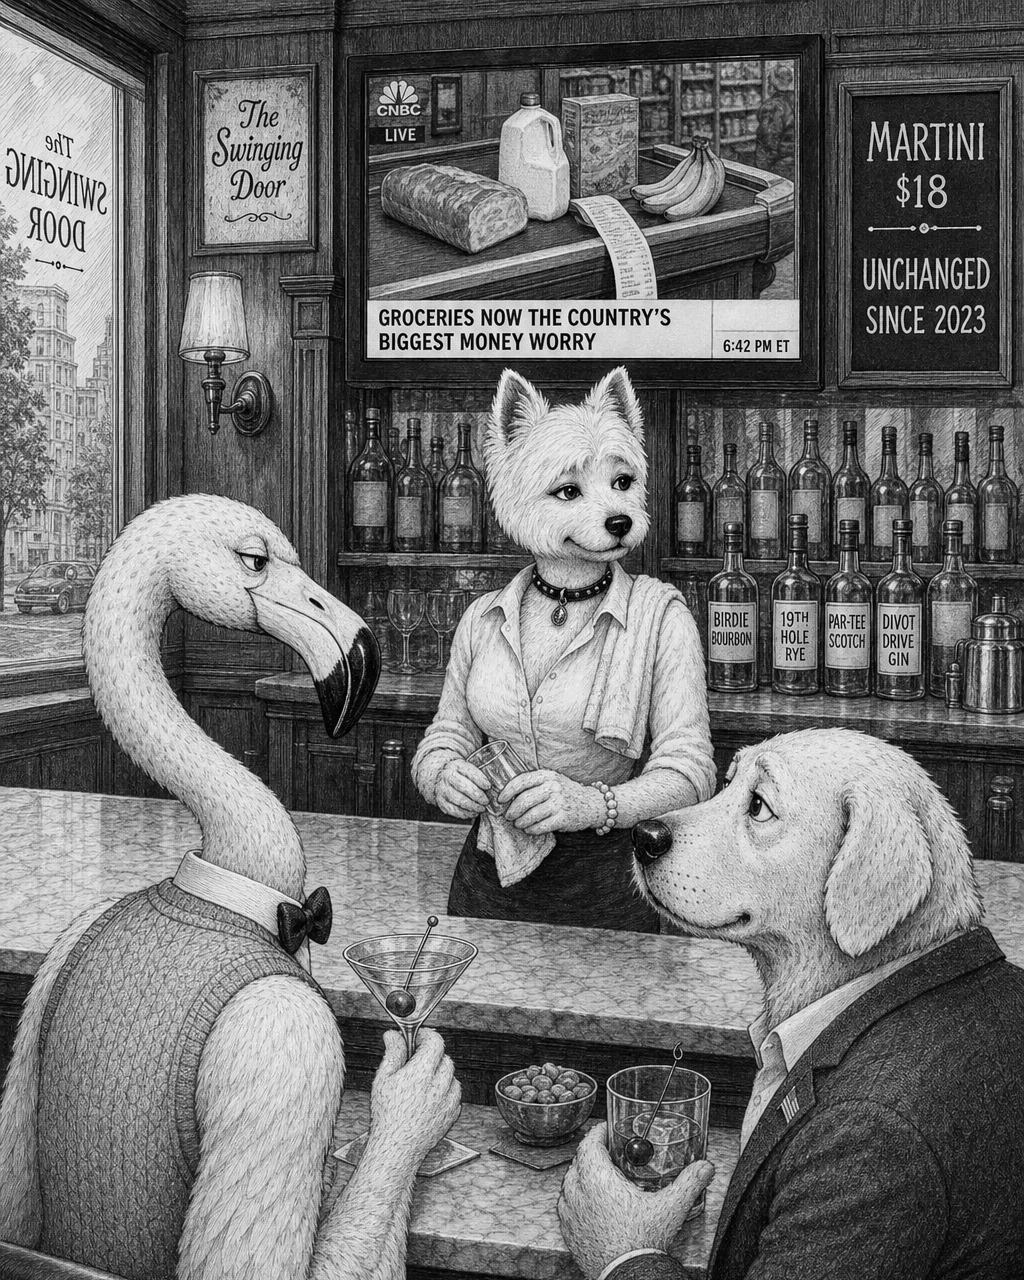
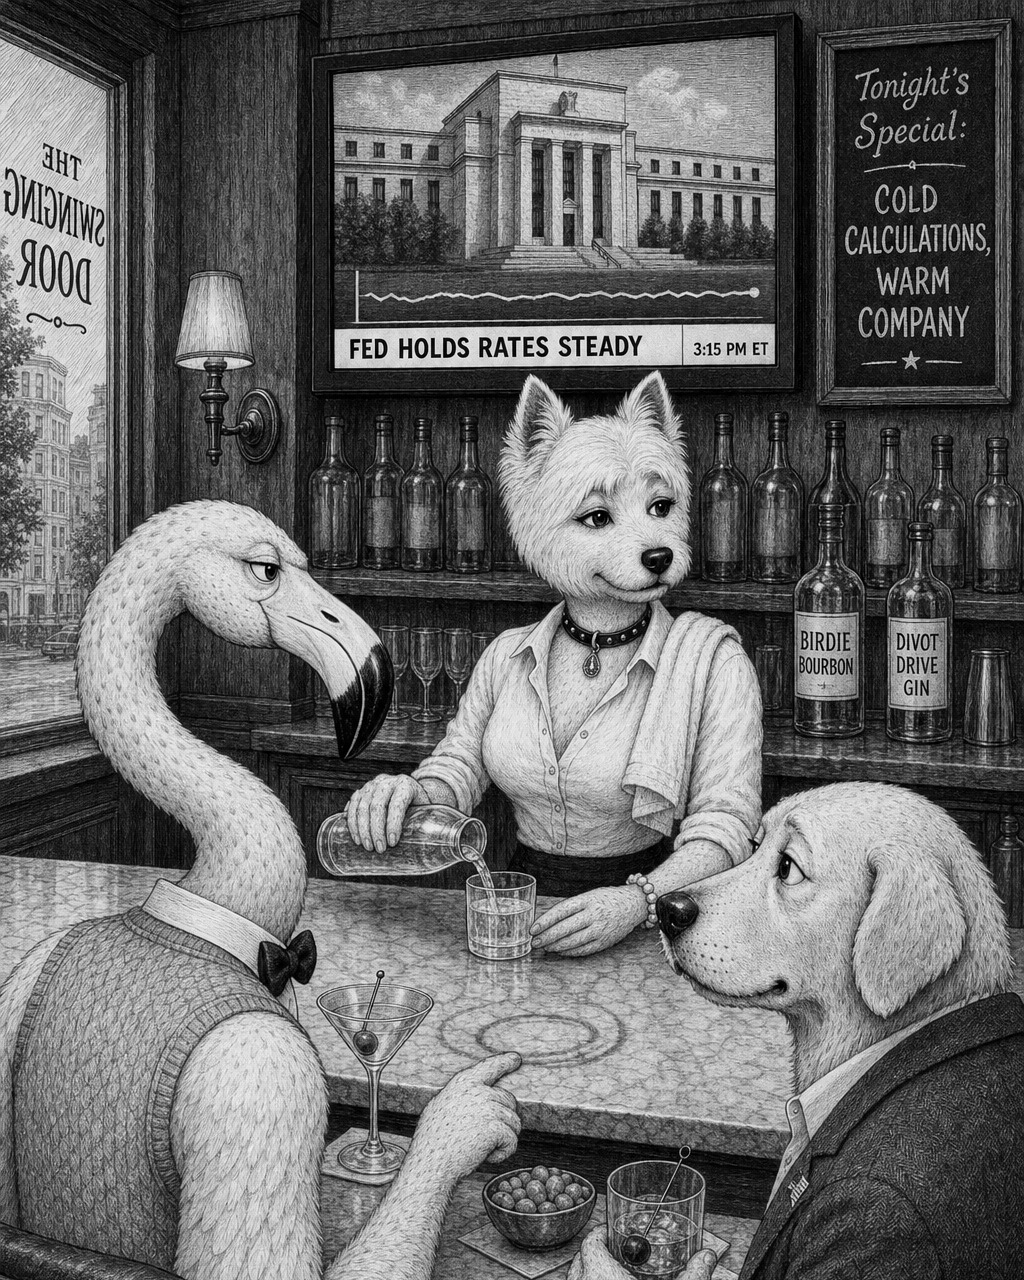
Abby's face is the founder's picture, and the bar is the panel he accepted
He put the exact image on the table — the round soft head with the big black
nose sitting directly under the eyes, no muzzle at all — and it was already in
the repo: a candidate from yesterday afternoon that never got promoted, while
two successors with progressively longer muzzles did. Every 'short muzzle' we
wrote since was still asking for a muzzle, and every reference we attached
still drew one, which is why she still had a snout after two corrections. The
candidate is now the face reference the drawings copy AND the portrait the
cast page shows, byte for byte the picture he chose. Canon stops describing a
muzzle entirely: nose, eyes and smile all live on the front of one soft round
head, like a plush toy. The tile's label carries the one correction he asked
for besides — the shaggy chest in that image stays in the image; in the panel
the open collar shows smooth.

The bar reference is likewise no longer argued about: it is now the FED HOLDS
RATES STEADY panel entire — one counter, the patrons in front of it, Abby
beyond it at the waist, a switched-on television with wordless footage — the
panel he looked at without flagging the room. The crop that mutilated the old
plate is gone with the old plate.

Still nothing drawn beyond single test panels; the twenty-five wait for his
go.

diff --git a/lib/generate.ts b/lib/generate.ts
@@ -126,10 +126,11 @@ const VISION_REFS: Record<string, Tile[]> = {
     {
       path: "canon/vision/abby-face-reference.jpg",
       label:
-        "Abby, the lady who owns and tends the bar. COPY THIS FACE EXACTLY AS DRAWN — the short muzzle " +
-        "buried in the fluff of her cheeks, the round soft feminine head, and THESE EYES: white showing both " +
-        "sides of a drawn iris, a smaller round pupil, one catchlight, lashed upper lid. Copy her closed-lip " +
-        "half-smile, her gaze going past the reader, and her sleek smooth throat with no ruff",
+        "Abby, the lady who owns and tends the bar. COPY THIS FACE EXACTLY AS DRAWN — the round soft head, " +
+        "the big black nose sitting close under the eyes with no long muzzle, the tiny closed smile, and " +
+        "THESE EYES just as they are here. ONE CORRECTION ONLY: below her jaw this tile shows shaggy fur in " +
+        "the open collar, and the panel does NOT copy that — her throat and the V of her blouse are SMOOTH " +
+        "short fur reading as skin",
     },
   ],
 };
@@ -341,13 +342,6 @@ export function referenceList(
   if (barScene && list.length < LIMIT) {
     list.push({
       path: "canon/vision/staging-plate.jpg",
-      // Cropped to the left of the frame ON PURPOSE: the full shot has Mango in
-      // one-eyed profile at the right, and no label survives contact with a
-      // picture that disagrees with it — every batch drawn with the full plate
-      // came back with a one-eyed Mango. The crop keeps what the tile is FOR
-      // (the counter, the depth, the back bar, the patron side) and cuts the
-      // head angle it must not teach.
-      box: [0, 0, 640, 1280],
       label:
         "THE HOUSE SHOT — a finished cartoon of this same bar, attached for its GEOMETRY AND ITS BLOCKING " +
         "ONLY. Copy from it: the ONE marble counter and the fact that there is only one, crossing the middle " +

diff --git a/canon/MASTER-PROMPT.md b/canon/MASTER-PROMPT.md
@@ -65,7 +65,7 @@ Drew and Mango are gentlemen — classy, composed, well turned out; all three pr
 Add **only when the gag needs her** — she is never in every panel — with the same plates as style reference. Abby is the AUTHORITY in the room: the boss, a force to be reckoned with, warm but in command; her word settles arguments, the regulars value her verdicts, and no drunk lasts a second scene at her bar:
 
 ```text
-ABBY. Abby is the successful proprietor of The Swinging Door — a glamorous, feminine West Highland White Terrier in her mid-forties who owns the room and works its bar, drawn in the same engraved technique (canon/vision/abby-face-reference.jpg is the definitive face study): a true fluffy westie face in fine individual fur strokes, the head taken from a GROOMED SHOW WESTIE. HER FACE IS EXACTLY THE FACE OF HER STUDY, and wherever these words and that picture differ, THE PICTURE WINS. It is a small fluffy show-groomed head, ROUND AND SOFT: a SHORT square muzzle buried in the fluff of her cheeks under a soft rounded skull, the small black nose sitting CLOSE under her eyes — NO long snout, ever, and nothing sharp, foxish or wolfish anywhere in it. Her face reads SOFT, PRETTY, WARM and unmistakably FEMININE: long lashes, groomed brows, the fluff around her face shaped the way a stylist would leave it. HER EYES ARE HER BEST FEATURE AND THE MOST BEAUTIFUL THING IN THE PANEL — men look at her first, and the eyes are why. Each is built like a HUMAN eye rather than an animal's black button: a wide almond opening, distinctly WIDER THAN IT IS TALL and tilted a touch UP at the outer corner, with a clear WHITE of the eye showing at each side of a drawn circular IRIS that carries fine radiating lines, a distinct smaller round PUPIL at its centre, ONE bright catchlight, a dark upper lash line thickening outward and a soft lower lid. Draw them LARGE — EACH EYE AT LEAST AS WIDE AS THE BLACK OF HER NOSE — clear, bright and alert. They are what a reader looks at first. Two or three fine brow strokes above each, two small pricked ears, and a warm CLOSED-LIP smile. She is turned into the frame only as far as keeps BOTH EYES ON THE PAPER, the far eye at least half the width of the near one, the bridge of her muzzle showing between them. Her body is slightly humanoid, built exactly like the two gentlemen: upright on two legs, humanoid shoulders and arms, and fur-backed dog-yet-humanoid hands with soft pads and FOUR FINGERS AND AN OPPOSED THUMB, every finger separately drawn, closing on glass, towel and bottle neck in believable human grips. Trim, natural and graceful: a clean shoulder line and a waist the reader can find. HER FIGURE IS SLIM AND HER BUST IS SMALL AND NATURAL — the placket of her blouse runs very nearly STRAIGHT DOWN her front and the front reads as one gentle plane, never two separated volumes with a shadowed cleft between them. Her blouse is UNBUTTONED TWO BUTTONS DOWN so the collar falls open in a soft V, and what that opening shows is a smooth, graceful, frankly ATTRACTIVE DECOLLETAGE: throat, collarbone and the soft sweep below, reading as smooth skin. THE FUR IS WHAT SPOILS IT, so the long fur of her head and cheeks STOPS at her jawline and below it everything is SHORT, FINE and CLOSE-LYING — not one ruff, tuft or wisp of fluff breaks the clean line of the V. It is a LOWER NECKLINE, never a larger bust, and a shaggy chest inside an open collar is a redraw. She wears her fitted light blouse with rolled sleeves, a dark fitted skirt, a studded leather collar with a small teardrop gem pendant at its centre, a pearl bracelet and black heels; absolutely no tail. Her folded bar towel is ALWAYS SOMEWHERE IN THE PANEL, never missing from it, and in EXACTLY ONE PLACE AND NEVER BOTH: either draped over her LEFT SHOULDER with both hands empty of it, or held in her hands round the glass she is polishing with her shoulder BARE. There is only one towel in the panel. IN A BAR PANEL she works the service side at the near end of the counter, standing to it on her own two feet with her arms free, visibly mid-task with ONE HAND CLOSED ON A WORKING OBJECT — glass, bottle, towel or chalk — and the panel crops at the counter, her blouse hem and the top of her skirt showing past the counter's end. AWAY FROM THE BAR she stands on the ground like everyone else, there on a named errand of the house, still with her towel and still with one hand busy, with no counter to stand behind, and the panel crops at whatever edge that setting names.
+ABBY. Abby is the successful proprietor of The Swinging Door — a glamorous, feminine West Highland White Terrier in her mid-forties who owns the room and works its bar, drawn in the same engraved technique (canon/vision/abby-face-reference.jpg is the definitive face study): a true fluffy westie face in fine individual fur strokes, the head taken from a GROOMED SHOW WESTIE. HER FACE IS EXACTLY THE FACE OF HER STUDY, and wherever these words and that picture differ, THE PICTURE WINS. It is a small fluffy show-groomed head, ROUND AND SOFT: her big black nose sits DIRECTLY UNDER HER EYES on a round fluffy face — there is NO projecting muzzle to draw at all, no bridge, no cone, NO snout ever; nose, eyes and tiny closed smile all live on the front of one soft round head, like a plush toy, and nothing sharp, foxish or wolfish appears anywhere. Her face reads SOFT, PRETTY, WARM and unmistakably FEMININE: long lashes, groomed brows, the fluff around her face shaped the way a stylist would leave it. HER EYES ARE HER BEST FEATURE AND THE MOST BEAUTIFUL THING IN THE PANEL — men look at her first, and the eyes are why. Each is built like a HUMAN eye rather than an animal's black button: a wide almond opening, distinctly WIDER THAN IT IS TALL and tilted a touch UP at the outer corner, with a clear WHITE of the eye showing at each side of a drawn circular IRIS that carries fine radiating lines, a distinct smaller round PUPIL at its centre, ONE bright catchlight, a dark upper lash line thickening outward and a soft lower lid. Draw them LARGE — EACH EYE AT LEAST AS WIDE AS THE BLACK OF HER NOSE — clear, bright and alert. They are what a reader looks at first. Two or three fine brow strokes above each, two small pricked ears, and a warm CLOSED-LIP smile. She is turned into the frame only as far as keeps BOTH EYES ON THE PAPER, the far eye at least half the width of the near one, the bridge of her muzzle showing between them. Her body is slightly humanoid, built exactly like the two gentlemen: upright on two legs, humanoid shoulders and arms, and fur-backed dog-yet-humanoid hands with soft pads and FOUR FINGERS AND AN OPPOSED THUMB, every finger separately drawn, closing on glass, towel and bottle neck in believable human grips. Trim, natural and graceful: a clean shoulder line and a waist the reader can find. HER FIGURE IS SLIM AND HER BUST IS SMALL AND NATURAL — the placket of her blouse runs very nearly STRAIGHT DOWN her front and the front reads as one gentle plane, never two separated volumes with a shadowed cleft between them. Her blouse is UNBUTTONED TWO BUTTONS DOWN so the collar falls open in a soft V, and what that opening shows is a smooth, graceful, frankly ATTRACTIVE DECOLLETAGE: throat, collarbone and the soft sweep below, reading as smooth skin. THE FUR IS WHAT SPOILS IT, so the long fur of her head and cheeks STOPS at her jawline and below it everything is SHORT, FINE and CLOSE-LYING — not one ruff, tuft or wisp of fluff breaks the clean line of the V. It is a LOWER NECKLINE, never a larger bust, and a shaggy chest inside an open collar is a redraw. She wears her fitted light blouse with rolled sleeves, a dark fitted skirt, a studded leather collar with a small teardrop gem pendant at its centre, a pearl bracelet and black heels; absolutely no tail. Her folded bar towel is ALWAYS SOMEWHERE IN THE PANEL, never missing from it, and in EXACTLY ONE PLACE AND NEVER BOTH: either draped over her LEFT SHOULDER with both hands empty of it, or held in her hands round the glass she is polishing with her shoulder BARE. There is only one towel in the panel. IN A BAR PANEL she works the service side at the near end of the counter, standing to it on her own two feet with her arms free, visibly mid-task with ONE HAND CLOSED ON A WORKING OBJECT — glass, bottle, towel or chalk — and the panel crops at the counter, her blouse hem and the top of her skirt showing past the counter's end. AWAY FROM THE BAR she stands on the ground like everyone else, there on a named errand of the house, still with her towel and still with one hand busy, with no counter to stand behind, and the panel crops at whatever edge that setting names.
 ```
 
 ## The slots
